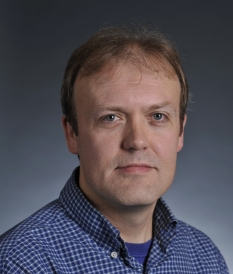
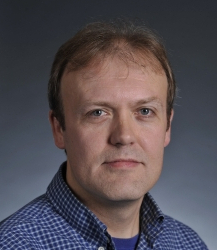
add new pic

diff --git a/neuroflight/index.html b/neuroflight/index.html
@@ -248,7 +248,7 @@ Firmware</h3>
 
         <div class="p-2 flex-fill"><!-- Wil -->
           <div class="team-member">
-            <img class="mx-auto rounded-circle" src="../img/profile.jpg" alt="">
+            <img class="mx-auto rounded-circle" src="img/team/wil.jpg" alt="">
             <h4>William Koch</h4>
             <p class="text-muted">PhD Candidate</p>
               <a class="btn btn-primary" target="_blank" href="https://wfk.io">Website</a>
